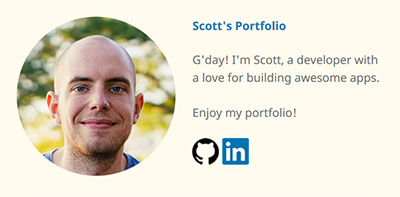
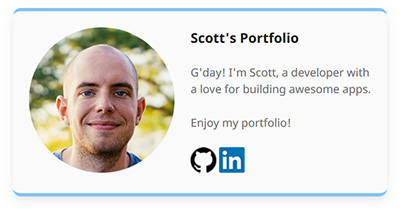
Major style update to all pages including new colours and shadows. Includes updates to the 'Portfolio' post images.

diff --git a/assets/index.css b/assets/index.css
@@ -1,37 +1,54 @@
+/* Main layout styles */
+
+:root {
+    --colour-primary     : #84c3f3;
+    --colour-primary-dark: #65b4f0;
+}
+
 html {
-    border-top: 0.3rem solid #ffb84d;
+    border-top: 0.3rem solid var(--colour-primary);
 }
 
-.tags {
-    display  : flex;
-    flex-wrap: wrap;
+header {
+    background-color: #fafafa;
+    padding         : 20px !important;
+    padding-left    : 0 !important;
+    border-radius   : 10px;
+    display         : flex;
+    flex-wrap       : wrap;
+    border-top      : 4px solid var(--colour-primary);
+    border-bottom   : 4px solid var(--colour-primary);
+    box-shadow      : 0 6px 18px -2px rgba(50, 50, 93, .1), 0 3px 7px -3px rgba(0, 0, 0, .1);
 }
 
-.tags>*,
-.tag {
-    font-size          : 0.9em;
-    color              : white !important;
-    background-color   : #84c3f3;
-    padding            : 0.3rem 0.6rem;
-    margin             : 0 0.3rem 0.3rem 0;
-    border-radius      : 0.3rem;
-    -webkit-user-select: none;
-    -moz-user-select   : none;
-    -ms-user-select    : none;
-    user-select        : none;
-    font-weight        : normal !important;
+.header-image {
+    flex-basis  : 250px;
+    margin      : 0 auto 20px;
+    padding-left: 20px;
 }
 
-.tags>a:hover,
-.tags>a:focus {
-    background-color: #65b4f0;
+.header-title {
+    font-size: 1.2em;
 }
 
-.date {
-    font-size   : 1.2em;
-    color       : #888;
-    margin-right: 20px;
+@media print,
+screen and (max-width: 960px) {
+    .header-image {
+        flex-basis: 200px;
+    }
 }
+
+.header-content {
+    flex-basis  : 300px;
+    flex-grow   : 1;
+    padding-left: 20px;
+}
+
+section {
+    border: none !important;
+}
+
+/* Default element styles */
 
 blockquote {
     box-sizing : border-box;
@@ -62,53 +79,67 @@ blockquote::after {
     bottom: 0;
 }
 
-header {
-    background-color: #fefbee;
-    padding         : 20px !important;
-    padding-left    : 0 !important;
-    border-radius   : 10px;
-    display         : flex;
-    flex-wrap       : wrap;
+code,
+pre {
+    background-color: #faf9f4;
+    padding         : 4px 6px;
+    border-radius   : 3px;
+    font-family     : "Noto Sans", "Helvetica Neue", Helvetica, Arial, sans-serif;
 }
 
-.header-image {
-    flex-basis  : 250px;
-    margin      : 0 auto 20px;
-    padding-left: 20px;
+.tags {
+    display  : flex;
+    flex-wrap: wrap;
 }
 
-.header-content {
-    flex-basis  : 300px;
-    flex-grow   : 1;
-    padding-left: 20px;
+/* Custom styles */
+
+.date {
+    font-size   : 1.2em;
+    color       : #888;
+    margin-right: 20px;
 }
 
-section {
-    border: none !important;
+.tags>*,
+.tag {
+    font-size          : 0.9em;
+    color              : var(--colour-primary) !important;
+    background-color   : white;
+    padding            : 0.3rem 0.6rem;
+    margin             : 0 0.3rem 0.3rem 0;
+    border-radius      : 0.3rem;
+    -webkit-user-select: none;
+    -moz-user-select   : none;
+    -ms-user-select    : none;
+    user-select        : none;
+    font-weight        : normal !important;
+    position           : relative;
+    margin-right       : 6px;
+    box-shadow         : 0 2px 4px rgba(50, 50, 93, .11), 0 1px 2px rgba(0, 0, 0, .08);
+}
+
+.tags>a:hover,
+.tags>a:focus {
+    color           : var(--colour-primary-dark) !important;
+    background-color: #f8f8f8;
 }
 
 .big-link,
 .big-link:hover,
 .big-link:focus {
-    background-color: #84c3f3;
+    background-color: var(--colour-primary);
     color           : white;
     padding         : 10px 15px;
-    border-radius   : 10px;
+    border-radius   : 4px;
     white-space     : nowrap;
     font-weight     : bold;
     position        : relative;
+    margin-right    : 6px;
+    box-shadow      : 0 4px 6px rgba(50, 50, 93, .11), 0 1px 3px rgba(0, 0, 0, .08);
 }
 
 .big-link:hover {
-    background-color: #65b4f0;
-}
-
-.big-link.alt {
-    background-color: #ffb84d;
-}
-
-.big-link.alt:hover {
-    background-color: #ffa63a;
+    background-color: var(--colour-primary-dark);
 }
 
 .image-small {
@@ -132,12 +163,4 @@ section {
     margin-right: auto;
     margin-left : auto;
     text-align  : center;
-}
-
-code,
-pre {
-    background-color: #faf9f4;
-    padding         : 4px 6px;
-    border-radius   : 3px;
-    font-family     : "Noto Sans", "Helvetica Neue", Helvetica, Arial, sans-serif;
 }

diff --git a/_layouts/post.html b/_layouts/post.html
@@ -12,7 +12,7 @@ layout: default
     {% endif %}
 
     {% if page.link %}
-    <a href="{{ page.link }}" class="big-link alt" target="_blank">View it live here</a>
+    <a href="{{ page.link }}" class="big-link" target="_blank">View it live here</a>
     {% endif %}
 </p>
 {% endif %}

diff --git a/_includes/sidebar.html b/_includes/sidebar.html
@@ -6,7 +6,7 @@
     {% endif %}
 
     <div class="header-content">
-        <p><strong><a href="/">{{ site.title }}</a></strong></p>
+        <p class="header-title"><strong>{{ site.title }}</strong></p>
         <p>{{ site.description }}</p>
 
         <p style="margin: 0;">
